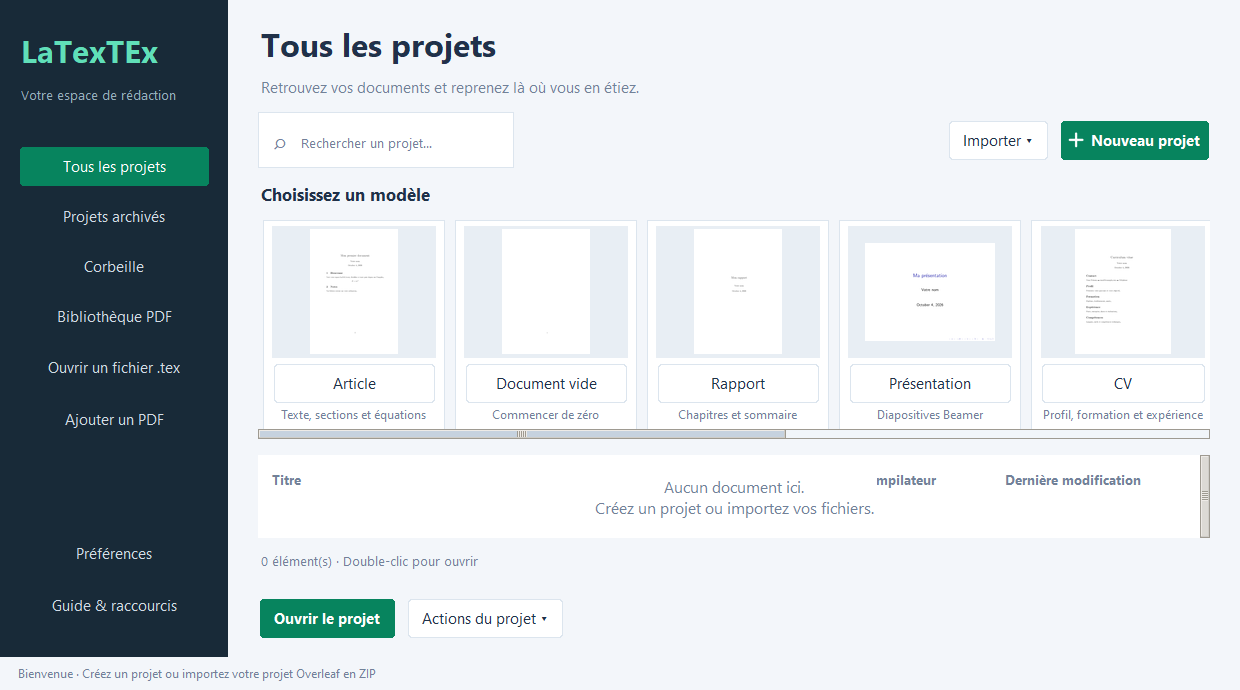
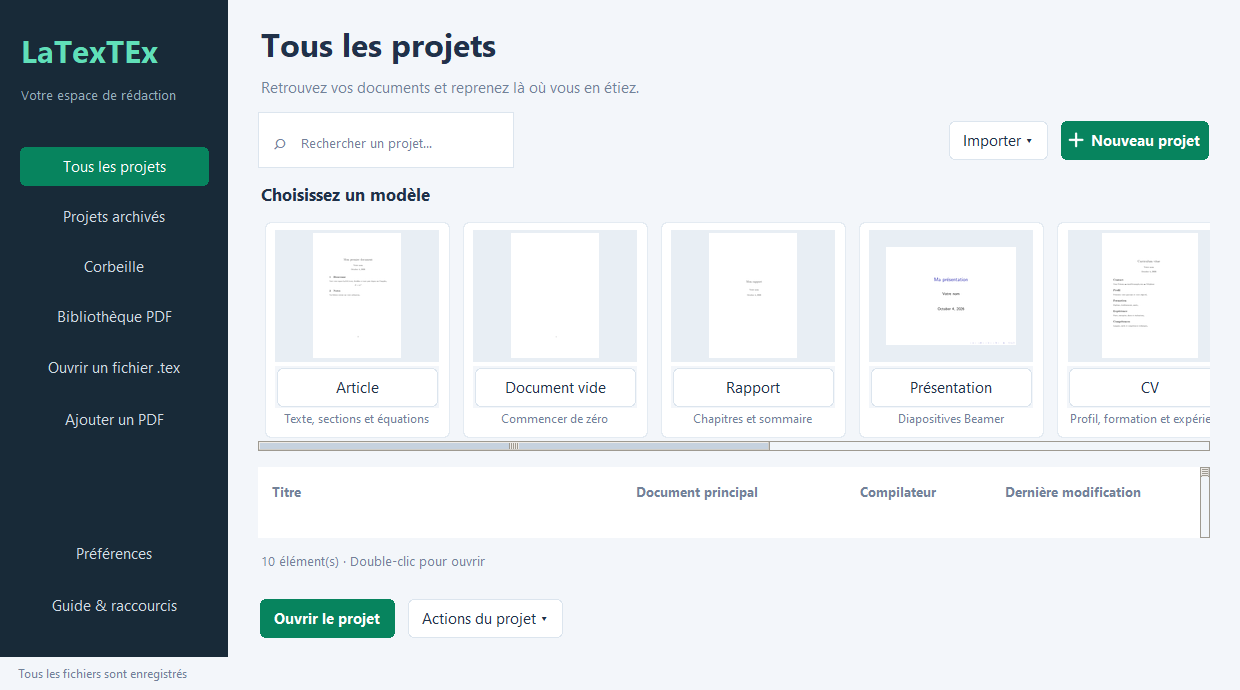
Polish desktop UI with centered dialogs, rounded cards and smooth opening

diff --git a/project_studio.py b/project_studio.py
@@ -20,6 +20,7 @@ from tkinter import filedialog, messagebox, simpledialog, ttk
 from latex_studio import ROOT, SAMPLE, Studio, find_engine, pymupdf, Image, ImageTk
 from project_store import ProjectStore, TEXT_SUFFIXES, HIDDEN_DIRS, sources, inside, write_json
 
+from soft_ui import SoftDialog, SoftCard
 from ui_icons import ICONS, TIPS, CAPTIONS, draw_icon
 
 BG = '#f3f6fa'
@@ -128,7 +129,7 @@ class ModernButton(tk.Canvas):
             fill, ink, border = '#e4ece9', '#8d9d96', '#e4ece9'
         if self.focus_get() == self:
             border = '#58bfa5'
-        radius = 10 if not self.small else 7
+        radius = 14 if not self.small else 9
         points = [2+radius,2,width-2-radius,2,width-2,2,width-2,2+radius,width-2,height-2-radius,width-2,height-2,width-2-radius,height-2,2+radius,height-2,2,height-2,2,height-2-radius,2,2+radius,2,2]
         self.create_polygon(points, smooth=True, splinesteps=20, fill=fill, outline=border)
         if self.icon_name:
@@ -321,12 +322,21 @@ from editor_options import EditorOptions
 class App(EditorOptions, tk.Tk):
     def __init__(self, data_dir=None, legacy=None):
         super().__init__()
+        self.withdraw()
         self.title('LaTexTEx — Vos projets')
         if (ROOT / 'app.ico').exists():
             self.iconbitmap(str(ROOT / 'app.ico'))
-        self.geometry(f'{min(1450, self.winfo_screenwidth() - 60)}x{min(900, self.winfo_screenheight() - 95)}+25+25')
+        window_width = min(1450, self.winfo_screenwidth() - 60)
+        window_height = min(900, self.winfo_screenheight() - 95)
+        window_x = (self.winfo_screenwidth() - window_width) // 2
+        window_y = max(30, (self.winfo_screenheight() - window_height) // 2 - 20)
+        self.geometry(f'{window_width}x{window_height}+{window_x}+{window_y}')
         self.minsize(1020, 610)
         self.configure(bg=BG)
+        self.option_add('*Frame.background', PANEL)
+        self.option_add('*Label.background', PANEL)
+        self.option_add('*Label.foreground', FG)
+        self.option_add('*Font', ('Segoe UI', 11))
         self.store = ProjectStore(data_dir or ROOT / 'user-data', legacy or ROOT / 'workspace.json')
         self.preferences_path = self.store.root / 'preferences.json'
         self.preferences = json.loads(self.preferences_path.read_text(encoding='utf-8')) if self.preferences_path.exists() else {}
@@ -373,6 +383,7 @@ class App(EditorOptions, tk.Tk):
         self.protocol('WM_DELETE_WINDOW', self.on_close)
         self.after(100, self.poll)
         self.after(2000, self.auto_save)
+        self.deiconify()
 
     def button(self, parent, text, command, accent=False, **kwargs):
         return ModernButton(parent, text, lambda: self.guard(command), accent=accent, **kwargs)
@@ -414,7 +425,8 @@ class App(EditorOptions, tk.Tk):
         style.configure('TCheckbutton', background=PANEL, foreground=FG)
         style.configure('TCombobox', fieldbackground=PANEL, background=PANEL, foreground=FG, bordercolor='#dce5ee', arrowcolor=MUTED, padding=7, relief='flat')
         style.map('TCombobox', fieldbackground=[('readonly', PANEL)], foreground=[('readonly', FG)])
-        style.configure('TEntry', fieldbackground=PANEL, foreground=FG, bordercolor='#dce5ee', padding=6)
+        style.configure('TEntry', fieldbackground='#f8fafc', foreground=FG, bordercolor='#e4ebf2', lightcolor='#e4ebf2', darkcolor='#e4ebf2', padding=9)
+        style.map('TEntry', bordercolor=[('focus', '#62bca7')], lightcolor=[('focus', '#62bca7')], darkcolor=[('focus', '#62bca7')])
         style.configure('TFrame', background=PANEL)
         style.configure('TLabel', background=PANEL, foreground=FG)
         for orientation in ('Vertical', 'Horizontal'):
@@ -460,7 +472,7 @@ class App(EditorOptions, tk.Tk):
         self.button(actions, '+ Nouveau projet', self.new_project, accent=True).pack(side='right')
         self.button(actions, 'Importer ▾', lambda: self.action_menu([('Projet ZIP / Overleaf', self.import_zip), ('Dossier local', self.import_folder), ('Fichier LaTeX', self.open_existing_file)])).pack(side='right', padx=10)
         tk.Label(content, text='Choisissez un modèle', bg=BG, fg=FG, font=('Segoe UI', 13, 'bold'), anchor='w').pack(fill='x')
-        gallery_canvas = tk.Canvas(content, bg=BG, height=212, highlightthickness=0)
+        gallery_canvas = tk.Canvas(content, bg=BG, height=224, highlightthickness=0)
         gallery_canvas.pack(fill='x', pady=(8, 0))
         gallery_scroll = ttk.Scrollbar(content, orient='horizontal', command=gallery_canvas.xview)
         gallery_scroll.pack(fill='x', pady=(0, 16))
@@ -470,7 +482,7 @@ class App(EditorOptions, tk.Tk):
         gallery.bind('<Configure>', lambda e: gallery_canvas.configure(scrollregion=gallery_canvas.bbox('all')))
         self.template_photos = {}
         for index, title in enumerate(TEMPLATES):
-            card = tk.Frame(gallery, bg=PANEL, highlightbackground='#dce5ee', highlightthickness=1, padx=8, pady=5)
+            card = SoftCard(gallery)
             card.grid(row=0, column=index, sticky='nsew', padx=5, pady=3)
             image_path = preview_asset(ROOT, TEMPLATES[title], '.png')
             if image_path:
@@ -661,7 +673,7 @@ class App(EditorOptions, tk.Tk):
             self.log_toggle.configure(text='Masquer le journal')
 
     def compilation_settings(self):
-        dialog = tk.Toplevel(self)
+        dialog = SoftDialog(self)
         dialog.title('Paramètres de compilation')
         dialog.configure(bg=PANEL)
         dialog.transient(self)
@@ -742,17 +754,35 @@ class App(EditorOptions, tk.Tk):
             self.open_project(project)
 
     def new_project(self, selected_template='Article'):
-        dialog = tk.Toplevel(self)
+        dialog = SoftDialog(self)
         dialog.title('Nouveau projet')
         dialog.configure(bg=PANEL)
         dialog.resizable(False, False)
         dialog.transient(self)
         tk.Label(dialog, text='Créer un projet LaTeX', bg=PANEL, fg=FG, font=('Segoe UI', 17, 'bold')).pack(padx=24, pady=(20, 12))
+        tk.Label(dialog, text='Choisissez un modèle, donnez-lui un nom et commencez.', fg=MUTED, font=('Segoe UI', 10)).pack(padx=24, pady=(0, 16))
         name = tk.StringVar(value='Mon projet')
+        tk.Label(dialog, text='Nom du projet', font=('Segoe UI', 10, 'bold')).pack(anchor='w', padx=24)
         entry = ttk.Entry(dialog, textvariable=name, width=42, font=('Segoe UI', 12))
         entry.pack(padx=24, pady=7)
         template = tk.StringVar(value=selected_template)
-        ttk.Combobox(dialog, values=list(TEMPLATES), textvariable=template, state='readonly', width=40).pack(padx=24, pady=8)
+        tk.Label(dialog, text='Modèle', font=('Segoe UI', 10, 'bold')).pack(anchor='w', padx=24, pady=(10, 0))
+        selector = ttk.Combobox(dialog, values=list(TEMPLATES), textvariable=template, state='readonly', width=40)
+        selector.pack(padx=24, pady=8)
+        selected_preview = tk.Label(dialog, bg='#f5f8fb', padx=18, pady=12)
+        selected_preview.pack(fill='x', padx=24, pady=(8, 4))
+        description = tk.StringVar()
+        tk.Label(dialog, textvariable=description, fg=MUTED, font=('Segoe UI', 10)).pack(pady=(4, 8))
+        def update_preview(event=None):
+            image_path = preview_asset(ROOT, TEMPLATES[template.get()], '.png')
+            if image_path:
+                with Image.open(image_path) as image:
+                    image.thumbnail((160, 145), Image.Resampling.LANCZOS)
+                    selected_preview.photo = ImageTk.PhotoImage(image.copy())
+                selected_preview.configure(image=selected_preview.photo)
+            description.set(DESCRIPTIONS[template.get()])
+        selector.bind('<<ComboboxSelected>>', update_preview)
+        update_preview()
         tk.Label(dialog, text='Un dossier et un main.tex seront créés immédiatement.', bg=PANEL, fg=MUTED).pack(padx=24, pady=8)
         def create():
             project = self.store.create(name.get(), TEMPLATES[template.get()])
@@ -1161,7 +1191,7 @@ class App(EditorOptions, tk.Tk):
         self.set_edit_mode('Code')
         if not self.project:
             return
-        dialog = tk.Toplevel(self)
+        dialog = SoftDialog(self)
         dialog.title('Rechercher / remplacer')
         dialog.geometry('780x460')
         query, replace = tk.StringVar(), tk.StringVar()
@@ -1226,7 +1256,7 @@ class App(EditorOptions, tk.Tk):
         if not self.project or not self.save_all():
             return
         project = self.project
-        dialog = tk.Toplevel(self)
+        dialog = SoftDialog(self)
         dialog.title('Versions — aperçu, comparaison et restauration')
         dialog.geometry('850x560')
         table = ttk.Treeview(dialog, columns=('date', 'file'), show='headings', height=8)
@@ -1287,7 +1317,7 @@ class App(EditorOptions, tk.Tk):
         self.button(actions, 'Restaurer', restore, accent=True).pack(side='right')
 
     def preferences_dialog(self):
-        dialog = tk.Toplevel(self)
+        dialog = SoftDialog(self)
         dialog.title('Préférences de l’éditeur')
         dialog.configure(bg=PANEL)
         tk.Label(dialog, text='Taille du texte', bg=PANEL, fg=FG).pack(padx=25, pady=(20, 7))
@@ -1313,7 +1343,7 @@ class App(EditorOptions, tk.Tk):
         if not self.project:
             return
         project = self.project
-        dialog = tk.Toplevel(self)
+        dialog = SoftDialog(self)
         dialog.title('Commentaires locaux du projet')
         dialog.geometry('780x520')
         table = ttk.Treeview(dialog, columns=('state', 'file', 'line', 'text'), show='headings')
@@ -1430,7 +1460,7 @@ class App(EditorOptions, tk.Tk):
     def trash_dialog(self):
         if not self.project:
             return
-        dialog = tk.Toplevel(self)
+        dialog = SoftDialog(self)
         dialog.title('Corbeille des fichiers')
         table = ttk.Treeview(dialog, columns=('file', 'date'), show='headings')
         table.heading('file', text='Fichier / dossier')

diff --git a/soft_ui.py b/soft_ui.py
@@ -1,0 +1,77 @@
+"""Shared centered dialogs and rounded surfaces for the desktop workspace."""
+import tkinter as tk
+
+SURFACE = '#ffffff'
+BACKGROUND = '#f3f6fa'
+
+
+def center_window(window, owner=None):
+    window.update_idletasks()
+    dimensions = window.wm_geometry().split('+')[0].split('x')
+    requested_width, requested_height = map(int, dimensions)
+    width = min(requested_width if requested_width > 1 else window.winfo_reqwidth(), window.winfo_screenwidth() - 40)
+    height = min(requested_height if requested_height > 1 else window.winfo_reqheight(), window.winfo_screenheight() - 90)
+    if owner and owner.winfo_viewable():
+        x = owner.winfo_x() + (owner.winfo_width() - width) // 2
+        y = owner.winfo_y() + (owner.winfo_height() - height) // 2
+    else:
+        x = (window.winfo_screenwidth() - width) // 2
+        y = (window.winfo_screenheight() - height) // 2 - 20
+    x = max(10, min(x, window.winfo_screenwidth() - width - 10))
+    y = max(30, min(y, window.winfo_screenheight() - height - 50))
+    window.geometry(f'{width}x{height}+{x}+{y}')
+
+
+class SoftDialog(tk.Toplevel):
+    def __init__(self, master, **kwargs):
+        super().__init__(master, **kwargs)
+        self.withdraw()
+        self.configure(bg=SURFACE)
+        self.owner = master.winfo_toplevel()
+        self.transient(self.owner)
+        self.bind('<Escape>', lambda event: self.destroy())
+        self.pending = [self.after_idle(self.reveal)]
+
+    def destroy(self):
+        for timer in self.pending:
+            self.after_cancel(timer)
+        self.pending.clear()
+        super().destroy()
+
+    def reveal(self):
+        if not self.winfo_exists():
+            return
+        center_window(self, self.owner)
+        try:
+            self.attributes('-alpha', 0.0)
+        except tk.TclError:
+            pass
+        self.deiconify()
+        self.lift()
+        # Keep the normal Windows frame, resizing and keyboard behavior.
+        try:
+            self.fade_in(0)
+        except tk.TclError:
+            pass
+
+    def fade_in(self, step):
+        if self.winfo_exists():
+            self.attributes('-alpha', min(1.0, step / 6))
+            if step < 6:
+                self.pending.append(self.after(18, lambda: self.fade_in(step + 1)))
+
+
+class SoftCard(tk.Frame):
+    def __init__(self, master, **kwargs):
+        kwargs.update(bg=BACKGROUND, highlightthickness=0, padx=12, pady=10)
+        super().__init__(master, **kwargs)
+        self.skin = tk.Canvas(self, bg=BACKGROUND, highlightthickness=0, borderwidth=0)
+        self.skin.place(x=0, y=0, relwidth=1, relheight=1, bordermode='outside')
+        tk.Misc.lower(self.skin)
+        self.skin.bind('<Configure>', self.paint)
+
+    def paint(self, event):
+        width, height, radius = event.width, event.height, 16
+        self.skin.delete('all')
+        points = [radius, 2, width-radius, 2, width-2, 2, width-2, radius, width-2, height-radius, width-2, height-2, width-radius, height-2, radius, height-2, 2, height-2, 2, height-radius, 2, radius, 2, 2]
+        self.skin.create_polygon(points, smooth=True, splinesteps=24, fill=SURFACE, outline='#e4ebf2')

diff --git a/editor_options.py b/editor_options.py
@@ -5,6 +5,7 @@ import re
 import tkinter as tk
 from tkinter import filedialog, messagebox, simpledialog, ttk
 from template_catalog import table_source, escape_text
+from soft_ui import SoftDialog
 from PIL import ImageOps
 from visual_editor import VisualView, escaped
 
@@ -235,7 +236,7 @@ class EditorOptions:
         self.render_pdf()
 
     def symbols_dialog(self):
-        dialog = tk.Toplevel(self)
+        dialog = SoftDialog(self)
         dialog.title('Symboles mathématiques')
         dialog.configure(bg=PANEL)
         symbols = [('α', 'alpha'), ('β', 'beta'), ('γ', 'gamma'), ('δ', 'delta'), ('θ', 'theta'), ('λ', 'lambda'), ('μ', 'mu'), ('π', 'pi'), ('ρ', 'rho'), ('σ', 'sigma'), ('φ', 'phi'), ('ω', 'omega'), ('Σ', 'sum'), ('∫', 'int'), ('∞', 'infty'), ('≤', 'leq'), ('≥', 'geq'), ('≠', 'neq'), ('→', 'rightarrow'), ('×', 'times')]
@@ -276,7 +277,7 @@ class EditorOptions:
     def table_dialog(self):
         if self.readonly or not self.project:
             return
-        dialog = tk.Toplevel(self)
+        dialog = SoftDialog(self)
         dialog.title('Créer un tableau')
         dialog.geometry('750x520')
         settings = tk.Frame(dialog)
@@ -328,7 +329,7 @@ class EditorOptions:
         raw = filedialog.askopenfilename(title='Insérer une image', filetypes=[('Images LaTeX', '*.png *.jpg *.jpeg *.pdf')])
         if not raw:
             return
-        options = tk.Toplevel(self)
+        options = SoftDialog(self)
         options.title('Image — taille et légende')
         options.transient(self)
         width = tk.IntVar(value=80)
@@ -376,7 +377,7 @@ class EditorOptions:
         if not self.project:
             return
         from project_store import sources
-        dialog = tk.Toplevel(self)
+        dialog = SoftDialog(self)
         dialog.title('Images et ressources')
         table = ttk.Treeview(dialog, show='tree', height=10)
         table.pack(fill='both', expand=True, padx=12, pady=12)
@@ -394,7 +395,7 @@ class EditorOptions:
         self.button(dialog, 'Insérer une nouvelle image', self.insert_image).pack(pady=12)
 
     def share_dialog(self):
-        dialog = tk.Toplevel(self)
+        dialog = SoftDialog(self)
         dialog.title('Share — partage local')
         dialog.configure(bg=PANEL)
         tk.Label(dialog, text='Partager votre document', bg=PANEL, fg=FG, font=('Segoe UI', 18, 'bold')).pack(padx=28, pady=(24, 12))

diff --git a/visual_editor.py b/visual_editor.py
@@ -1,6 +1,7 @@
 """Conservative visual LaTeX editing: untouched and advanced source is preserved."""
 from dataclasses import dataclass
 import re
+from soft_ui import SoftDialog
 import tkinter as tk
 from tkinter import ttk
 
@@ -427,7 +428,7 @@ class VisualView(tk.Frame):
 
     def edit_source_dialog(self,title,raw,apply):
         if self.app.readonly:return
-        dialog=tk.Toplevel(self.app);dialog.title(title);dialog.geometry('640x330');dialog.transient(self.app);dialog.grab_set()
+        dialog=SoftDialog(self.app);dialog.title(title);dialog.geometry('640x330');dialog.transient(self.app);dialog.grab_set()
         tk.Label(dialog,text='Modifiez le LaTeX ; le rendu se met à jour après validation.',anchor='w',padx=14,pady=12).pack(fill='x')
         text=tk.Text(dialog,undo=True,font=('Consolas',12),wrap='word',padx=12,pady=10);text.pack(fill='both',expand=True,padx=12);text.insert('1.0',raw)
         self.app.button(dialog,'Appliquer',lambda:(apply(text.get('1.0','end-1c')),dialog.destroy()),accent=True).pack(side='right',padx=12,pady=10)
@@ -454,7 +455,7 @@ class VisualView(tk.Frame):
                     if source[last]=='}':depth-=1
                     last+=1
                 if not depth:values[name]=(first,last-1,source[first:last-1])
-        dialog=tk.Toplevel(self.app);dialog.title('Titre du document');dialog.transient(self.app);dialog.grab_set()
+        dialog=SoftDialog(self.app);dialog.title('Titre du document');dialog.transient(self.app);dialog.grab_set()
         variables={}
         for name,label in [('title','Titre'),('author','Auteur'),('date','Date (LaTeX accepté)')]:
             tk.Label(dialog,text=label,anchor='w').pack(fill='x',padx=18,pady=(10,3))

diff --git a/verify_soft_ui.py b/verify_soft_ui.py
@@ -1,0 +1,38 @@
+"""Check centered dialogs, animation cleanup and template selection."""
+from pathlib import Path
+import tempfile
+import time
+import tkinter as tk
+from PIL import ImageGrab
+from project_studio import App, ROOT
+from soft_ui import SoftDialog
+
+with tempfile.TemporaryDirectory(dir=ROOT) as directory:
+    app = App(data_dir=Path(directory) / 'data', legacy=Path(directory) / 'absent')
+    app.auto_preview_on_open = False
+    app.attributes('-topmost', True)
+    app.update()
+    errors = []
+    app.report_callback_exception = lambda *args: errors.append(args)
+    app.new_project('CV')
+    dialog = next(w for w in app.winfo_children() if isinstance(w, SoftDialog))
+    deadline = time.monotonic() + 0.3
+    while time.monotonic() < deadline:
+        app.update()
+        time.sleep(0.01)
+    assert abs((dialog.winfo_rootx() + dialog.winfo_width()/2) - (app.winfo_rootx() + app.winfo_width()/2)) < 8
+    assert abs((dialog.winfo_rooty() + dialog.winfo_height()/2) - (app.winfo_rooty() + app.winfo_height()/2)) < 35
+    assert dialog.attributes('-alpha') == 1.0
+    assert dialog.winfo_viewable()
+    ImageGrab.grab(window=dialog.winfo_id()).save(ROOT / 'preview-dialog.png')
+    dialog.event_generate('<Escape>')
+    app.update()
+    if dialog.winfo_exists():
+        dialog.destroy()
+    # Destruction before the reveal must not leave Tcl animation callbacks.
+    short_lived = SoftDialog(app)
+    short_lived.destroy()
+    app.update()
+    assert not errors, errors
+    app.destroy()
+print('Centered dialogs, selected template preview, smooth reveal and callback cleanup: OK')

diff --git a/README.md b/README.md
@@ -44,6 +44,8 @@ Les documents personnels, préférences locales et fichiers temporaires de compi
 
 ![Galerie de modèles](preview-gallery.png)
 
+Les fenêtres de création, recherche, préférences, historique et insertion s’ouvrent au centre de l’application avec une apparition progressive. Les cartes et boutons ont des angles arrondis, les champs des bordures discrètes et la création de projet affiche le modèle sélectionné avant validation. Échap ferme les fenêtres secondaires.
+
 Application locale Windows avec accueil des projets, éditeur multi-fichiers et aperçu PDF intégré, inspirée de la navigation d’Overleaf.
 
 L’interface utilise une navigation sombre, un espace de travail clair et des boutons avec états de survol et navigation au clavier. Les actions secondaires sont regroupées dans les menus Importer, Actions du projet et Projet. Les options de compilation sont dans Paramètres de compilation. Le journal est replié par défaut, accessible via Journal & erreurs et affiché automatiquement en cas d’échec.
